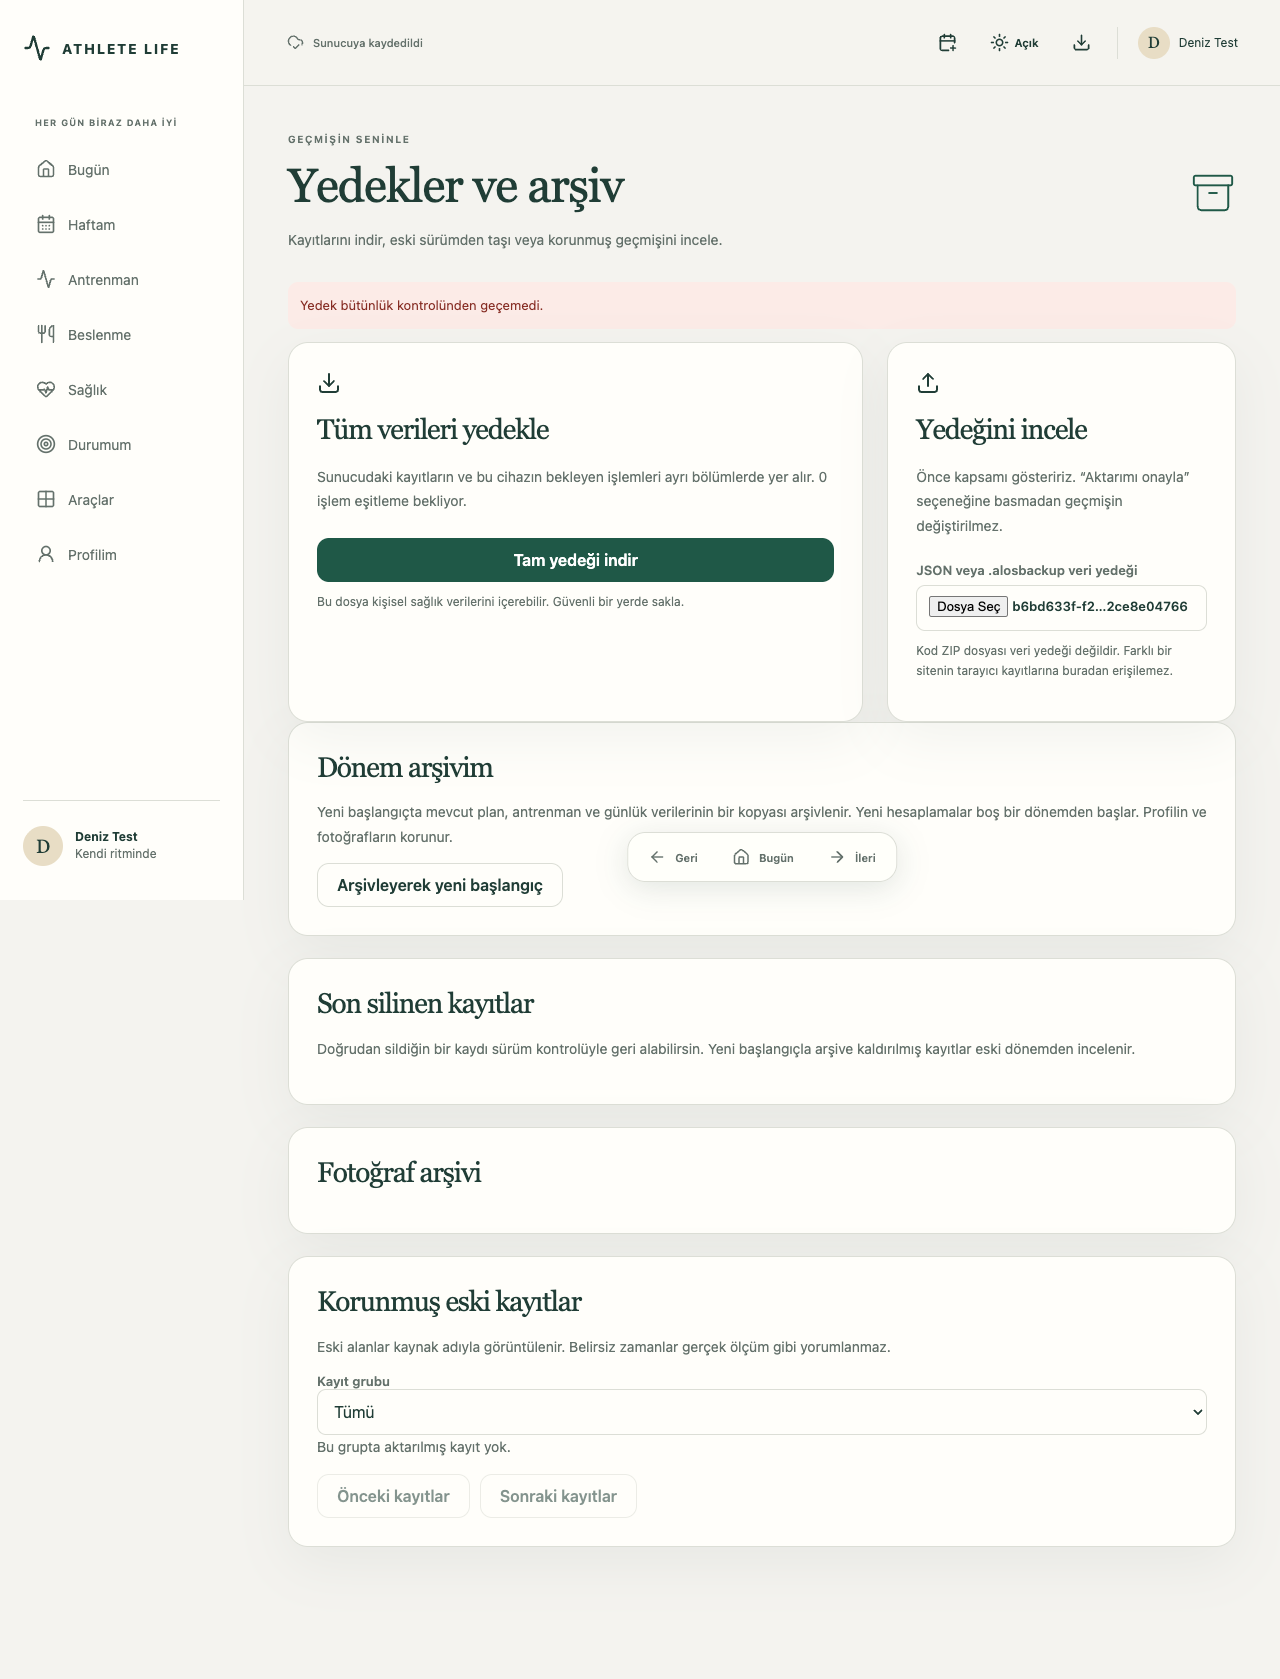
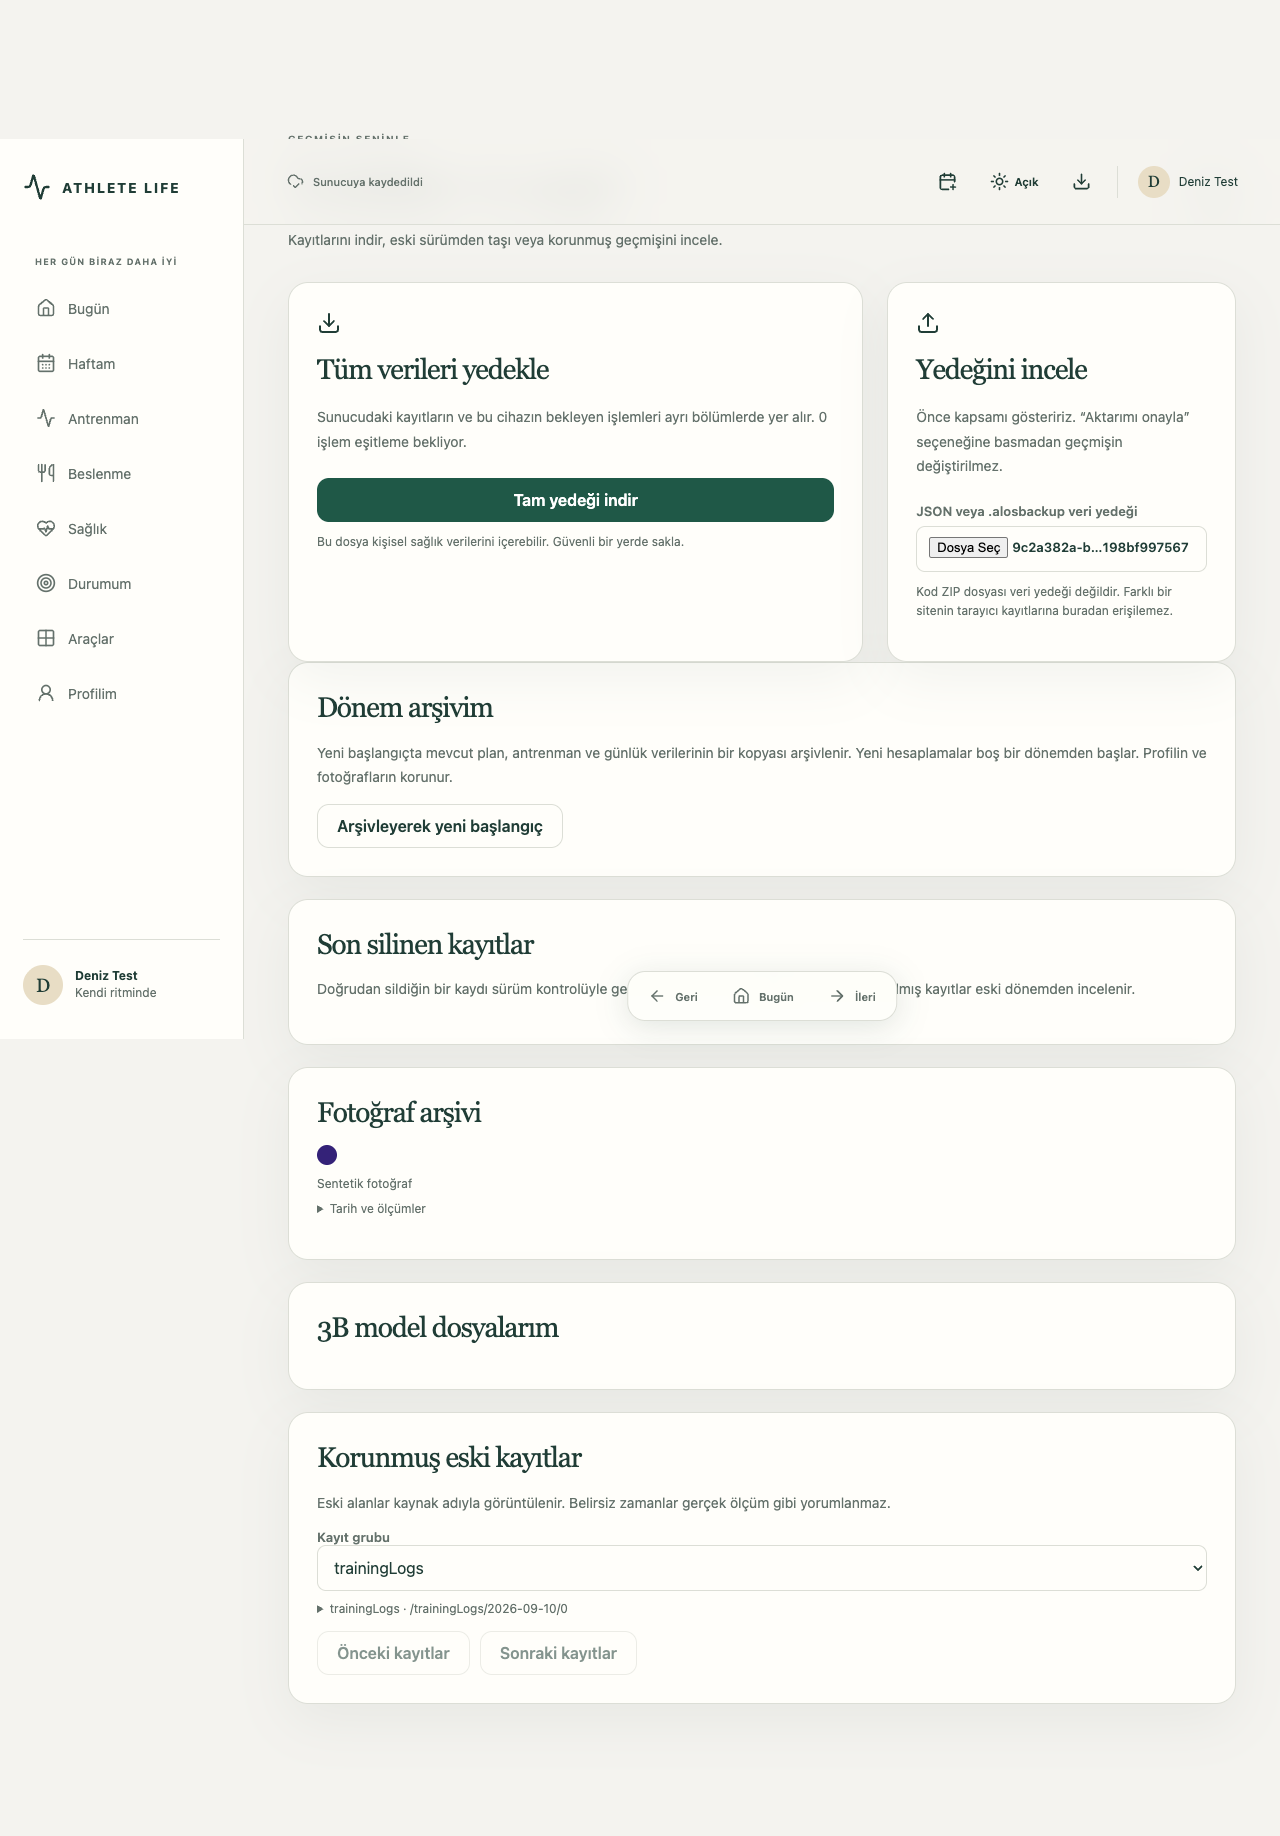
Wait for initial sync before restoring and scope archive assertions

diff --git a/apps/web/src/features/Backups.tsx b/apps/web/src/features/Backups.tsx
@@ -182,6 +182,7 @@ export function Backups({ store }: { store: SyncStore }) {
           </p>
           <button
             disabled={
+              !store.snapshot ||
               stage.status === "applied" ||
               store.pending.some((p) => p.command.entity_id === stage.id)
             }

diff --git a/docs/evidence/stage-6/CHANGES.md b/docs/evidence/stage-6/CHANGES.md
@@ -33,3 +33,9 @@ Son tam backend regresyonu: 56 PASS. Client: 8 PASS. Migration/model drift kontr
 ## Son devam: büyük yedek ve restore alanları
 
 Yedek import 64 MB'a ayrıldı; genel komut 16 MB sınırı korundu. >32 MB sentetik roundtrip geçti. V2 restore sonrası arşiv canonical kayıtları ikinci kez içermiyor; source_manifest, record_id_map ve bilinmeyen envelope/yerel kuyruk korunuyor. Legacy ham içerik değişmiyor. Negatif commute_min testi daha önce DB constraint 409 bekliyordu; yeni erken domain kontrolü 422/restore_domain döndürdüğünden beklenen sözleşme değiştirildi. Boş hedef/0 cursor/staged durum assertions korundu. Geçersiz timezone, RIR ve başka seansa bağlı slot ayrıca 422 ile atomik reddediliyor. Son tam regresyon 61 PASS.
+
+## Linux CI first-sync and archive selector correction (23 September)
+
+GitHub run 35805444032 at b35f08f passed Python, client, schema and container jobs but restore browser failed. The preview request finished before first bootstrap; apply was enabled and enqueue rejected with first-sync-required. Apply now stays disabled until canonical snapshot exists. The independent DB browser fixture delays bootstrap by two seconds to cover this race.
+
+Local rerun then reproduced a stale test selector: `details.first()` now selected the photo metadata form added in Stage 6. The assertion targets the summary for the requested archive domain instead; domain content, expansion, photo dimensions and restored shift assertions remain unchanged. Original failed runs are retained.
